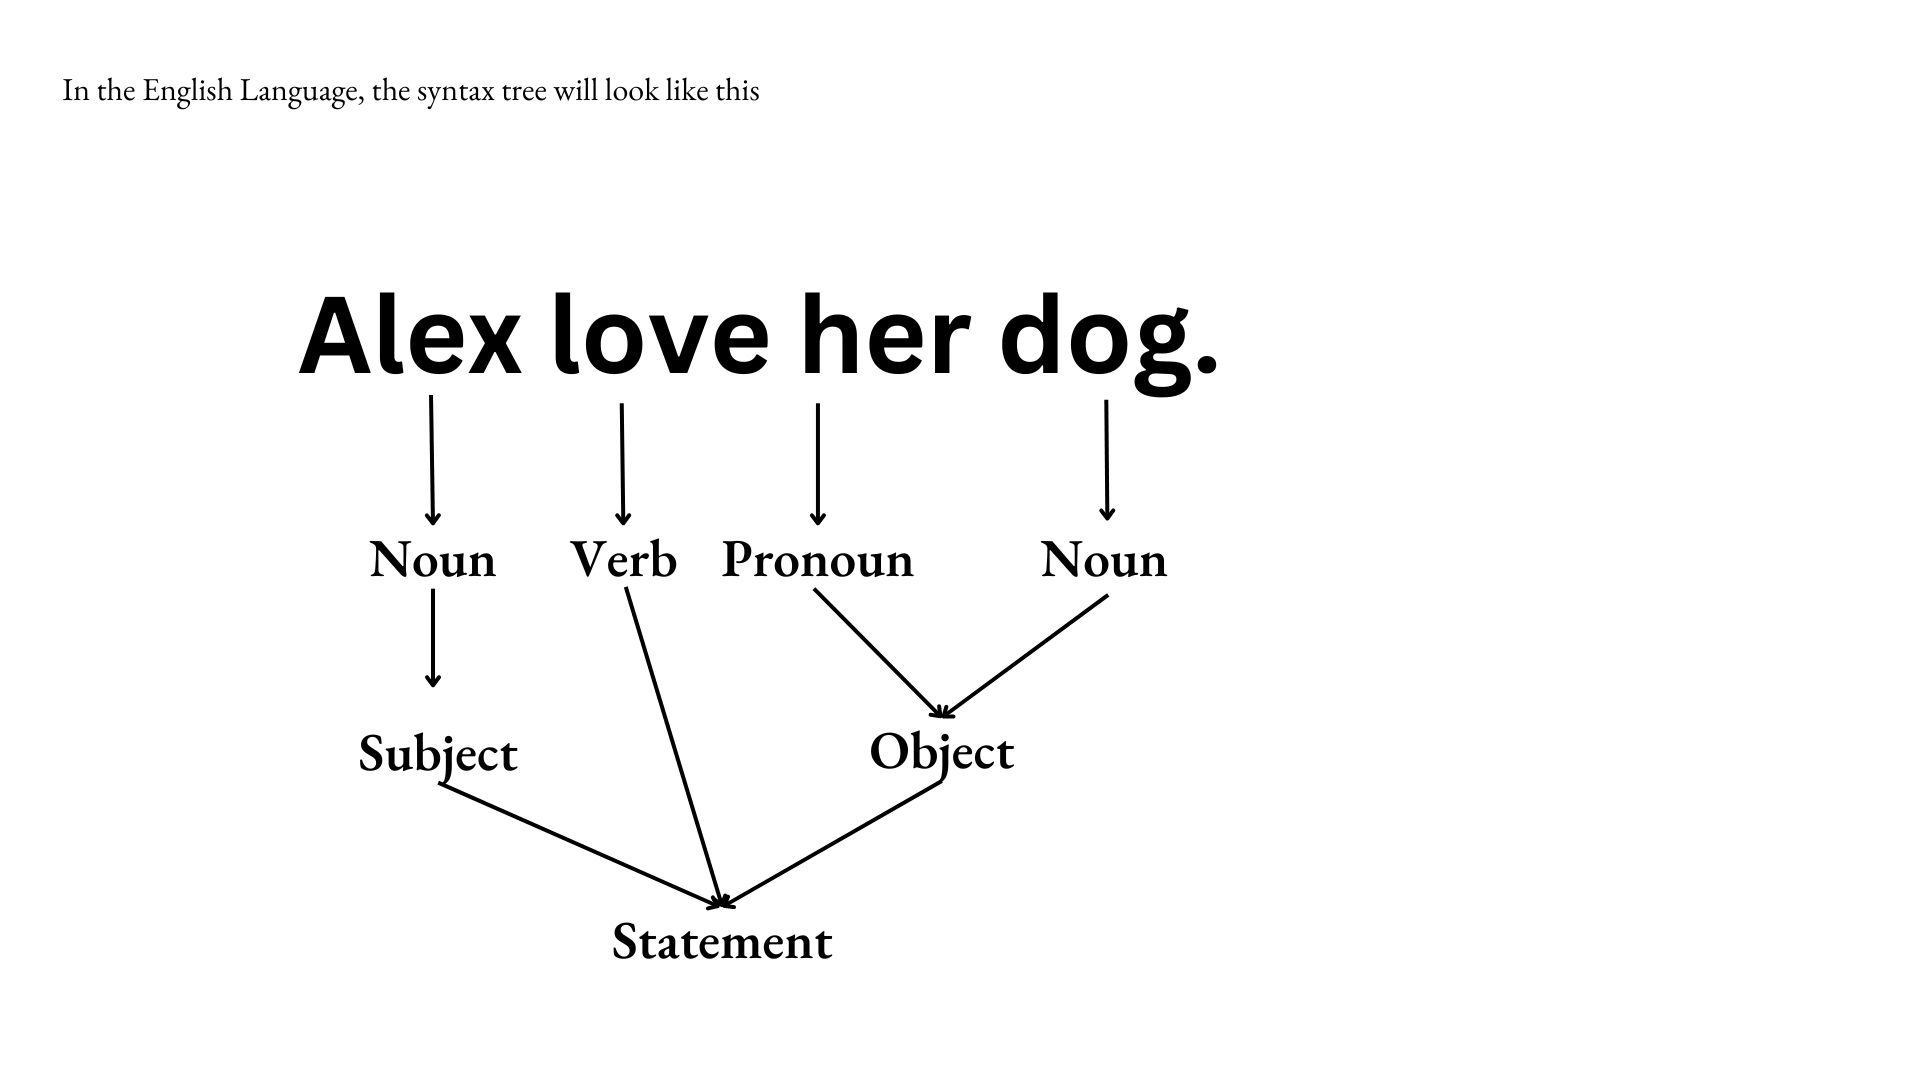
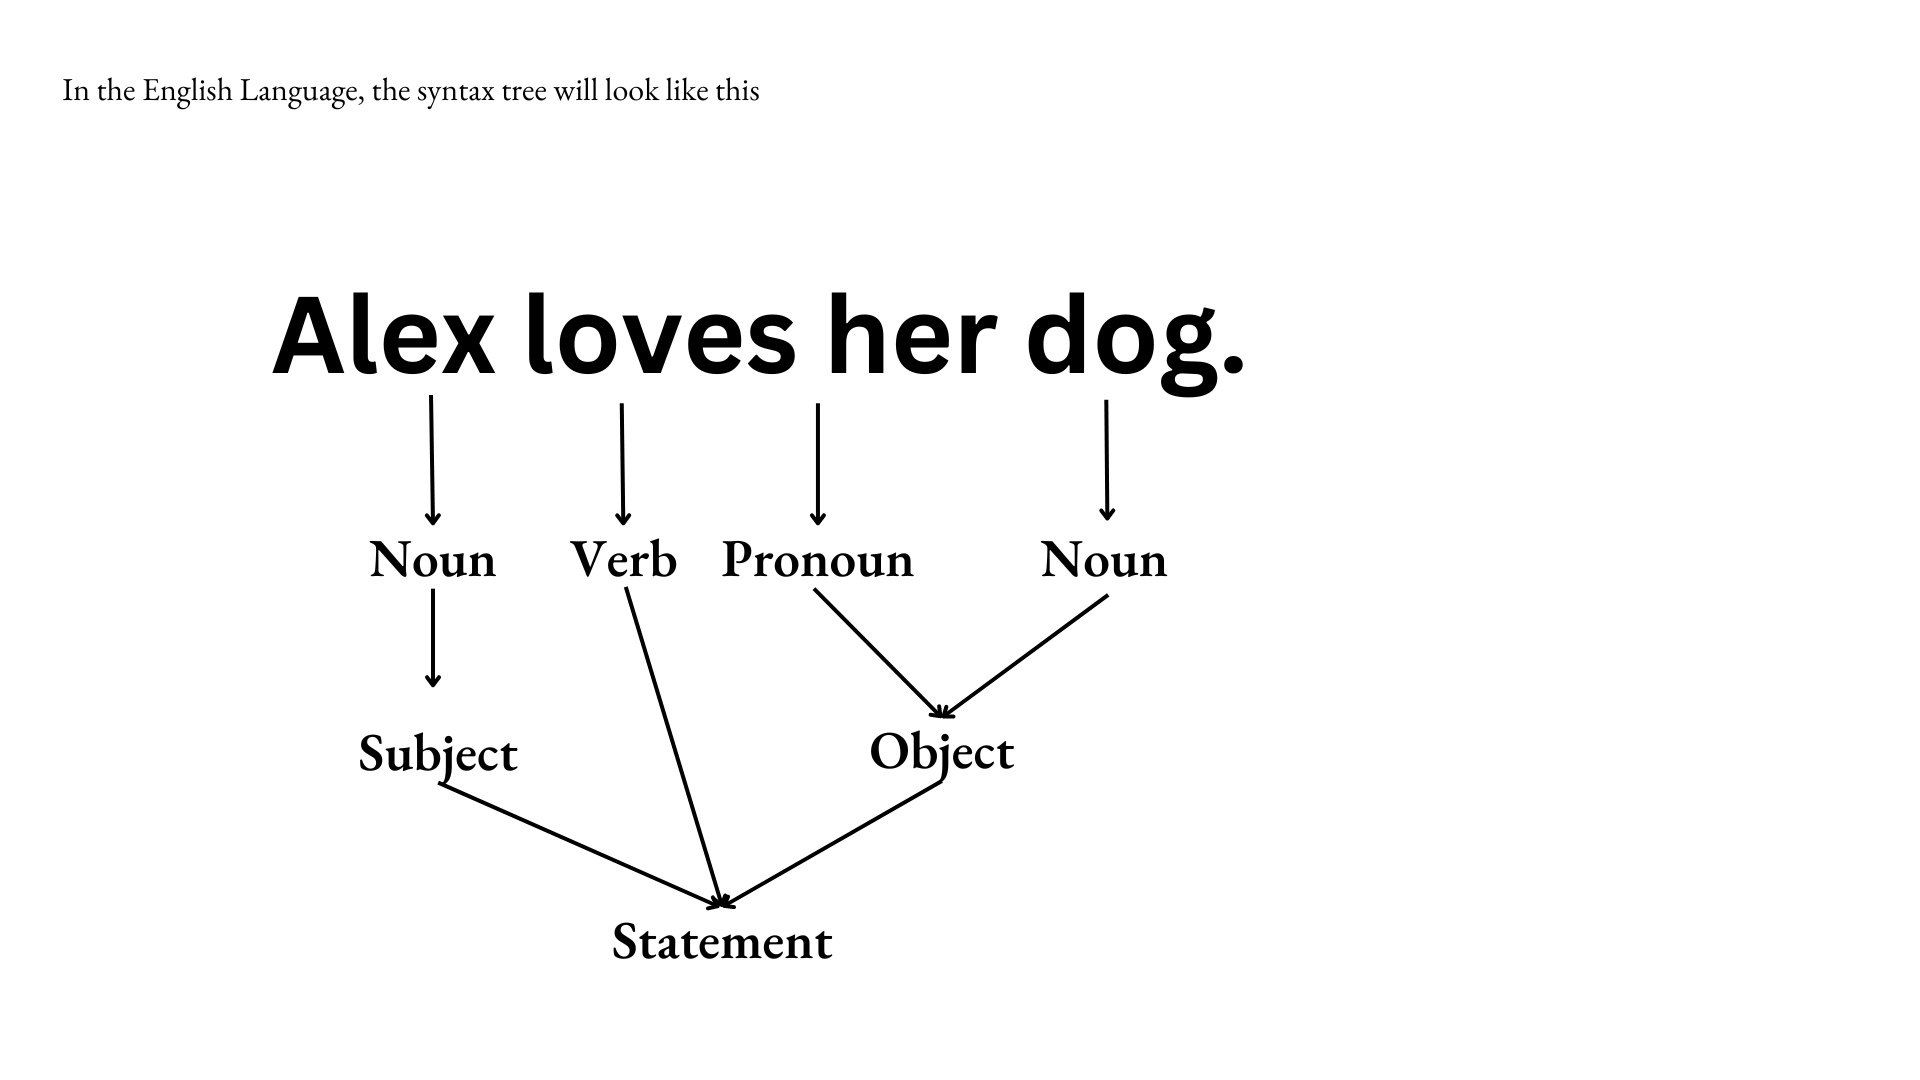
fix image

Changed region(s): [[0.125, 0.275, 0.6562, 0.3667]]

diff --git a/articles/compilerstructure.html b/articles/compilerstructure.html
@@ -137,7 +137,7 @@
 
                         <p> <b>So how does the compiler do it?</b></p>
 
-                        <p>The compiler do this in two phases. <i>Analysis</i> and <i>Systhesis</i>.</p>
+                        <p>The compiler do this in two phases. <i>Analysis</i> and <i>Synthesis</i>.</p>
 
                         <table class="table">
                             <thead>
@@ -167,7 +167,7 @@
                         <p>Lexical analysis (also called scanning), reads streams of character from source program and group these characters into meaningful sequences called <i>tokens</i>.</p>
                         <p> Consider the following statement.</p>
                         <p><center><i>Alex loves her dog.</i></center></p>
-                        <p>In the English language, we group letters to form words before we read it. In the statement above, we have the words "<b>Alex</b>","<b>love</b>","<b>her</b>", and "<b>dog</b>". </p>
+                        <p>In the English language, we group letters to form words before we read it. In the statement above, we have the words "<b>Alex</b>","<b>loves</b>","<b>her</b>", and "<b>dog</b>". </p>
                         <p>Now, let's look into this programming statement:</p>
                         <p><center><i>force = mass * 9.8.</i></center></p>
                         <p>In programming, <b>"force"</b>,<b>"="</b>, <b>"mass"</b>, <b>"*"</b>, and <b>"9.8"</b> are called <i>lexemes</i>. Each lexeme will be processed to become a <i>lexical token (or token)</i>, a group of characters with identified meaning. You can read more about Lexical Analysis <u>here</u>.</p>
@@ -181,7 +181,7 @@
                         </figure>
                         <figure class="my-4">
                             <img src="../assets/img/Syntax_Tree_PL.png" alt="" class="img-fluid">
-                            <figcaption>To learn more about Syntax Analysis, you this <u>article</u>. </figcaption>
+                            <figcaption>To learn more about Syntax Analysis, you may read this <u>article</u>. </figcaption>
                         </figure>
 
 
